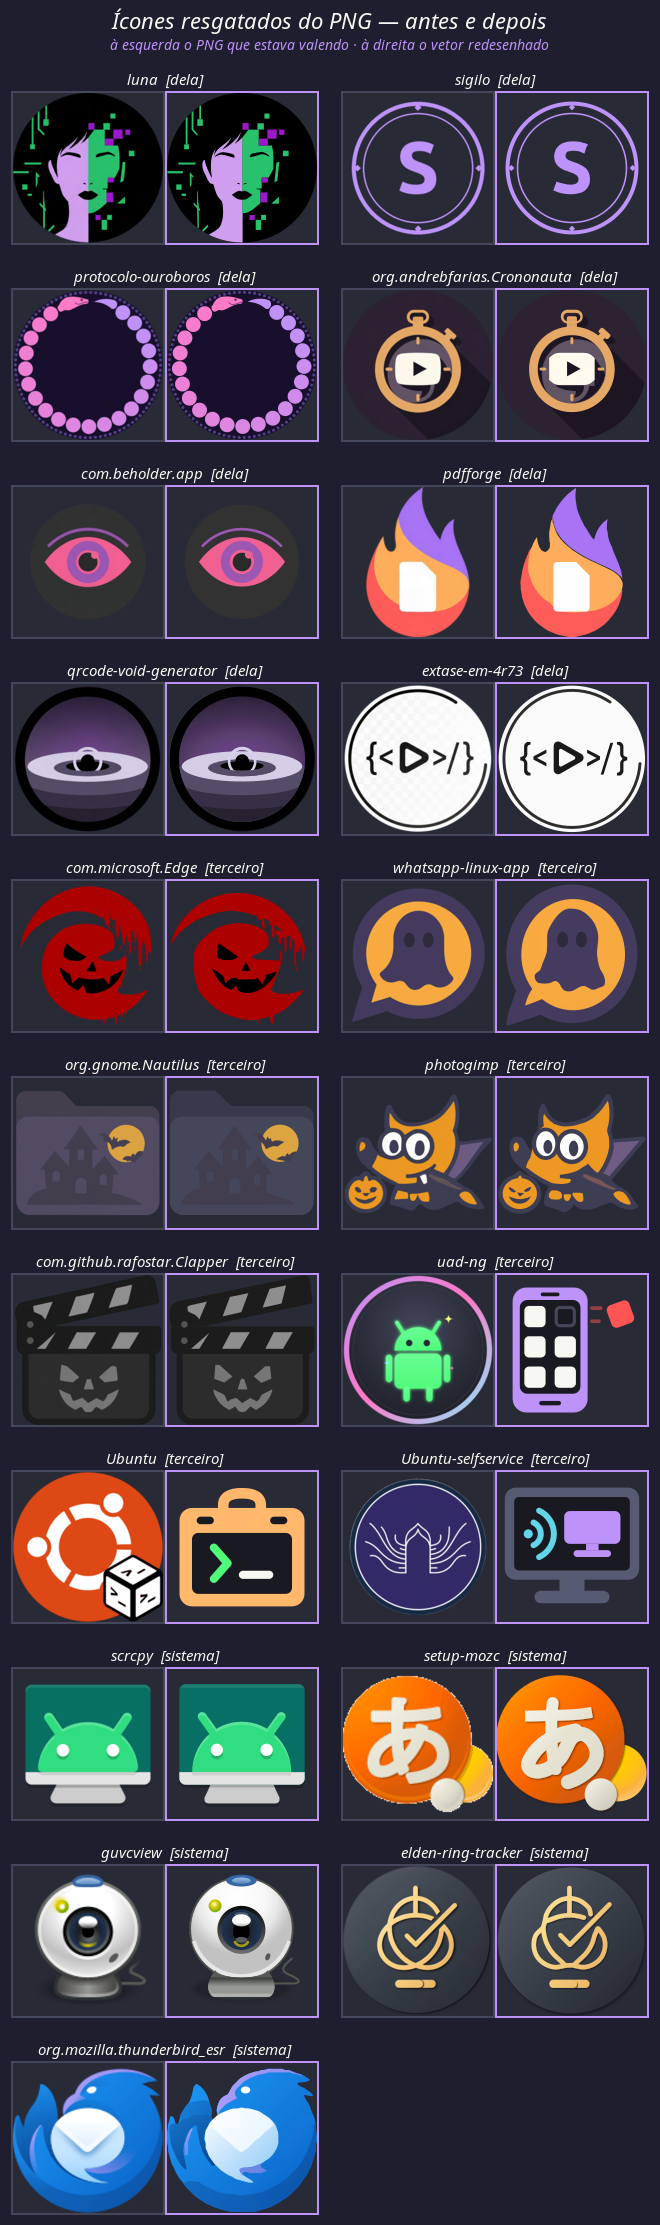
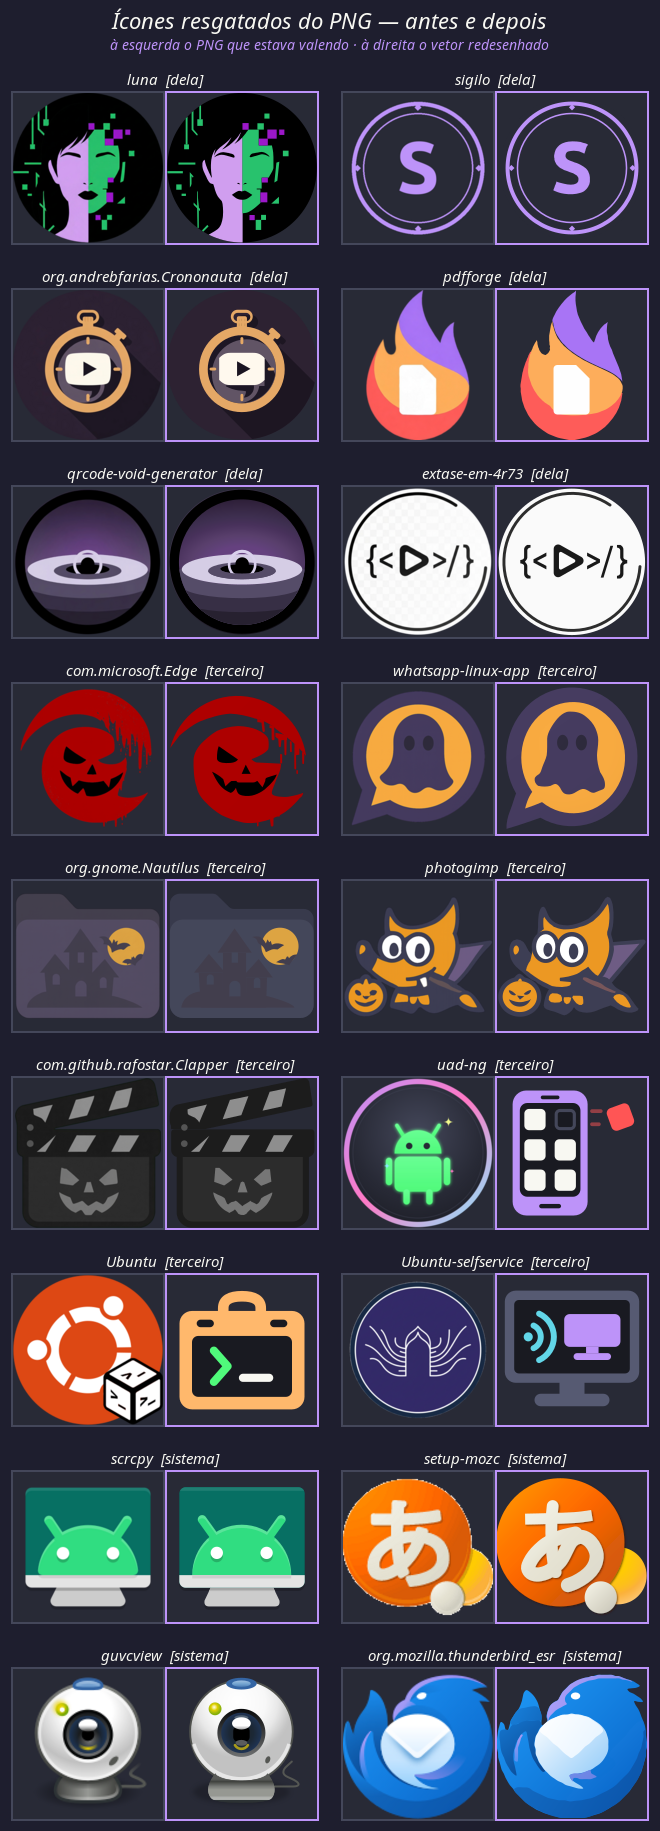
fix(pack): P90 item 8 - a folha dos resgatados perde os três pares que saíram do mapa, e a nota da procedência anda junto

diff --git a/packs/meowsystem/PROCEDENCIA.md b/packs/meowsystem/PROCEDENCIA.md
@@ -380,8 +380,11 @@ aparece na tela, não sobre apagar o desenho.
 gerado por `scripts/resgatados_folha.sh` a partir do mesmo mapa — se um ícone
 entrar ou sair do resgate, a folha refeita acompanha sozinha.
 
-**A folha de hoje é de 25/09/2026, sprint P67, e é a do `resgatados_folha.sh`
-com uma costura, dita aqui.** O script pede o PNG de origem no caminho que o
+**A folha de hoje é de 17/10/2026: é a de 25/09/2026 sem os três pares que
+saíram do mapa, cada um dos outros recortado dela e remontado na ordem do mapa;
+o `resgatados_folha.sh` a confere pixel a pixel e não a regrava.** A de
+25/09/2026, sprint P67, é a do `resgatados_folha.sh` com uma costura, dita
+aqui. O script pede o PNG de origem no caminho que o
 mapa guarda, e 12 dos 21 não estão mais nesta máquina: os nove do
 `Dracula-Icones`, que saiu do disco, o do `scrcpy`, o do `guvcview` e o do
 Thunderbird do flatpak. Rodado hoje, ele sai com doze molduras «sem o PNG» e
